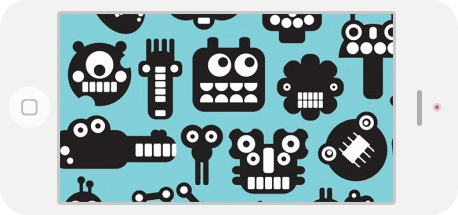
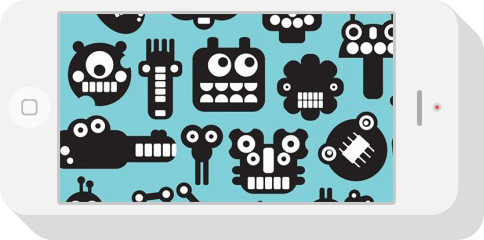
adadad

diff --git a/index.html b/index.html
@@ -30,14 +30,8 @@
 				<div class="slider">
 					<div class="slide-content" data-number="1">
 						<img class="iphone-vertical" src="images/iphone-vertical.png">
-						<img class="iphone-horizontal" src="images/iphone-horizontal.png">
-					</div>
-					<div class="slide-content" data-number="1">
-						<img class="iphone-vertical" src="images/iphone-vertical.png">
-						<img class="iphone-horizontal" src="images/iphone-horizontal.png">
-					</div>
-					<div class="slide-content" data-number="1">
-						<img class="iphone-vertical" src="images/iphone-vertical.png">
+					</div><!--
+				--><div class="slide-content" data-number="1">
 						<img class="iphone-horizontal" src="images/iphone-horizontal.png">
 					</div>
 				</div>
@@ -142,8 +136,22 @@
 
   			sliderCarousel.nav_bar.on('click', function() {
   				console.log($(this).data('dir'));
-  	 		sliderCarousel.slide( $(this).data('dir'));
+  			var color = getRandColor();	
+  			$('.wrapper-slider').css('background-color', color);	
+  	 		sliderCarousel.slideTo( $(this).data('dir'));
+
   		})
+  		resize = function( img ) {
+		var widthImage = img.naturalWidth * $(window).width() / 960;
+		width = Math.min(widthImage, 350);
+		var height = width * 9 / 16;
+		img.css({width:width, height: height});
+		}
+
+		resize($('.slide-content img'));
+		$(window).on('resize', function () {
+			resize($('.slide-content img'));
+		} )	
 
 	</script>
 </body>

diff --git a/style.css b/style.css
@@ -70,16 +70,24 @@ header{
 
 .slider {
 	height: 600px;
-
+	text-align: center;
+	padding-top: 30px;
 }
 
-.wrapper-slider{
-	overflow: hidden;
+.wrapper-slider {
 	background-color: #f06c64;
+	transition: background-color 1s;
+}
+.wrapper-slider .site-width{
+
+	overflow: hidden;
+	max-width: 960px;
+	min-width: 350px;
 
 }
 .slide-content{
 	height: 600px;
+	display: inline-block;
 
 }
 .slide-content[data-number='1']{
@@ -101,26 +109,7 @@ header{
 .site-width .arrow--right{
 	right: 0;
 }
-.iphone-vertical{
-	box-shadow: 23px 17px 3px #CE5B57;
 
-	border-radius: 23px;
-}
-.site-width .iphone-vertical{
-	position: absolute;
-	top: 53px;
-	left: 72px;
-}
-.iphone-horizontal{
-	box-shadow: 23px 17px 3px #CE5B57;
-	
-	border-radius: 23px;
-}
-.site-width .iphone-horizontal{
-	position: absolute;
-	top: 175px;
-	left: 380px;
-}
 .services{
 	
 	padding-top: 60px;

diff --git a/portofolio.html b/portofolio.html
@@ -78,3 +78,13 @@
 				</a>
 		</div>
 	</footer>
+	<script type="text/javascript">
+
+	window.onresize = function(event) {
+    	var pageWidth = $(window).width();
+		if (pageWidth <= ) {};
+
+	};
+
+	</script>
+</body>
